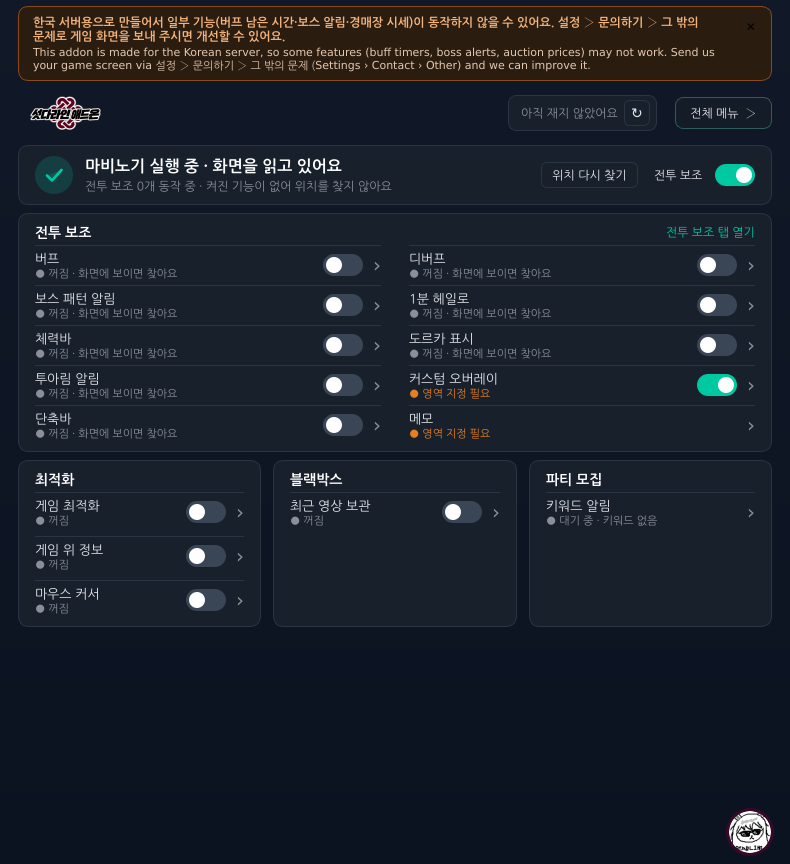
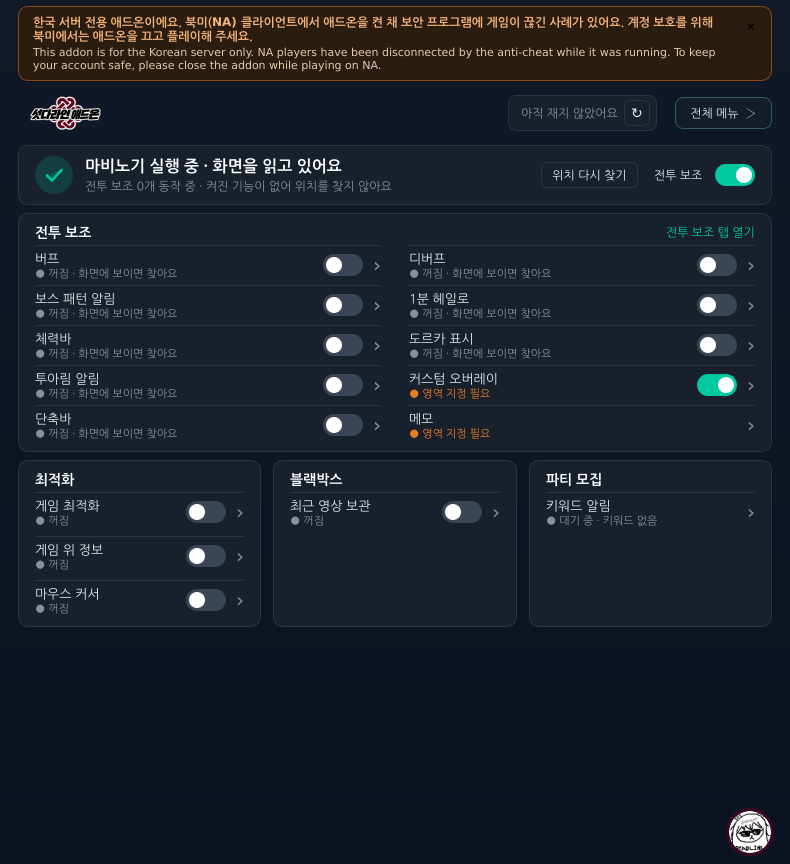
북미 안내 문구 강화 — 차단 없음, '애드온을 끄고 플레이' 경고를 실행마다 1번 (사용자 결정 11-18, 0.52.3)
자동 차단(5fbb5f09·2bb4cfb0)은 되돌림. 동작은 0.52.2와 같고 문구·판정·표시 횟수만:
- is_overseas_title: 제목이 정확히 'Mabinogi'(공백·대소문자 무시) — 꿀뷰·카톡·OBS 같은 한국 사용자 창에 경고가 뜨지 않게
- 표시: 앱 실행마다 1번(홈 띠 + 트레이), nonKoreanNoticeShown 안 씀 — 0.52.2 안내를 본 북미 사용자도 새 경고
- 문구: 보안 프로그램 끊김 사례·계정 보호를 위해 북미에서는 애드온을 끄고 플레이, 트레이 210자, 문의 권유 삭제
- 렌더(기본·큰 글꼴) 갱신, 노트 v0.52.3, 검사 목록 0.52.3

Claude-Session: https://claude.ai/code/session_01SbFuD9LBQUw7gFTz2Mmv9g

Changed region(s): [[0.0304, 0.0, 0.9114, 0.0938]]

diff --git a/tests/test_overseas_client.py b/tests/test_overseas_client.py
@@ -1,6 +1,7 @@
-"""해외(영문 제목) 마비노기 클라이언트 안내(사용자 결정 11-18) — 차단 없이 처음 볼 때 한 번 홈 띠 + 트레이 알림.
+"""북미(영문 제목) 마비노기 클라이언트 경고(사용자 결정 11-18 — 자동 차단 폐기, 안내 문구만 강화).
 
-NA 클라이언트는 창 제목 'Mabinogi', 한국은 '마비노기'(실행파일은 둘 다 Client.exe라 제목으로만 구분)."""
+차단 없이 앱 실행마다 한 번 홈 띠 + 트레이 알림. 북미 판정은 제목이 정확히 'Mabinogi'(한국은 '마비노기',
+실행파일은 둘 다 Client.exe라 제목으로만 구분). 경고가 '애드온을 끄라'는 내용이라 한국 사용자에게 뜨면 안 된다."""
 import pytest
 from test_navigation import window  # noqa: F401  (픽스처)
 
@@ -9,9 +10,12 @@ from mabinogi_addon.system.window_watcher import is_game_title, is_overseas_titl
 
 
 @pytest.mark.parametrize("title,overseas", [
-    ("Mabinogi", True), ("MABINOGI", True), ("mabinogi - Client", True),
+    ("Mabinogi", True), ("MABINOGI", True), (" mabinogi ", True),
     ("마비노기", False), ("마비노기 Mabinogi", False), ("Mabinogi 마비노기", False),
     ("", False), (None, False), ("메모장", False),
+    # 등록 실행파일이 없는 한국 사용자가 앞에 띄울 수 있는 창 — '포함' 판정이면 경고가 떴다
+    ("mabinogi_2026_11_18_123456.jpg - 꿀뷰", False), ("Mabinogi 길드", False),
+    ("OBS 30.2 - Profile: Mabinogi", False), ("mabinogi - Client", False),
 ])
 def test_title_decision(title, overseas):
     assert is_overseas_title(title) is overseas
@@ -20,12 +24,22 @@ def test_title_decision(title, overseas):
 @pytest.mark.parametrize("title,exe,shown", [
     ("Mabinogi", "client.exe", True),               # NA 게임 창
     ("Mabinogi", "", True),                         # 실행파일을 못 읽으면 제목만(게임 판정과 같은 규칙)
-    ("Mabinogi - Google Chrome", "chrome.exe", False),  # 브라우저 제외 목록은 게임이 아님 → 안내 없음
-    ("Mabinogi wiki", "explorer.exe", False),
+    ("Mabinogi", "chrome.exe", False),              # 제목이 딱 'Mabinogi'인 브라우저 — 제외 목록은 게임 아님
+    ("Mabinogi - Google Chrome", "chrome.exe", False),
     ("마비노기", "client.exe", False),               # 한국 게임 창
 ])
 def test_with_not_game_exclusions(title, exe, shown):
     assert (is_overseas_title(title) and is_game_title(title, exe)) is shown
+
+
+def test_warning_text_and_tray_limit(window):  # noqa: F811
+    w, _ = window
+    assert "애드온을 끄고 플레이해 주세요" in w.OVERSEAS_KO and "close the addon" in w.OVERSEAS_EN
+    for text in (w.OVERSEAS_KO, w.OVERSEAS_EN, w.OVERSEAS_TRAY):
+        assert "문의" not in text and "Contact" not in text  # 실행을 권하게 되는 '게임 화면 보내기' 권유는 뺌
+    assert w.OVERSEAS_TRAY_TITLE == "한국 서버 전용 · Korean server only"
+    assert w.OVERSEAS_TRAY.startswith(w.OVERSEAS_KO + "\n")
+    assert len(w.OVERSEAS_TRAY) == 210  # Windows 트레이 알림 본문 한도(약 255자) 안
 
 
 class Tray:
@@ -42,15 +56,16 @@ def _foreground(mp, w, title, exe="client.exe", active=True):
 
 
 # 창을 닫기(픽스처 정리) 전에 가짜 트레이·감시를 되돌린다 — 가짜를 단 채 닫으면 다음 창 테스트가 흔들림
-
-
-def test_overseas_client_notice_once(window, monkeypatch):  # noqa: F811
+def test_once_per_run_even_if_seen_before(window, monkeypatch):  # noqa: F811
     w, _ = window
     with monkeypatch.context() as mp:
+        config.save_general_flag("nonKoreanNoticeShown", True)  # 0.52.2 안내를 본 사용자 — 그래도 새 경고는 뜬다
         tray = Tray()
         mp.setattr(w, "_tray", tray)
         _foreground(mp, w, "마비노기")
-        assert not w._check_overseas_client() and w.home_page.notice_box.isHidden()  # 한국 클라이언트 — 없음
+        assert not w._check_overseas_client() and w.home_page.notice_box.isHidden()  # 한국 — 없음
+        _foreground(mp, w, "mabinogi_2026_11_18_123456.jpg - 꿀뷰", exe="")  # 등록 실행파일 없음 + 스크린샷 창
+        assert not w._check_overseas_client() and w.home_page.notice_box.isHidden()
         _foreground(mp, w, "Mabinogi", active=False)
         assert not w._check_overseas_client()  # 게임이 앞에 없으면 판단 안 함
         _foreground(mp, w, "Mabinogi")
@@ -58,39 +73,38 @@ def test_overseas_client_notice_once(window, monkeypatch):  # noqa: F811
         assert not w.home_page.notice_box.isHidden()
         assert w.home_page.notice_ko.text() == w.OVERSEAS_KO and w.home_page.notice_en.text() == w.OVERSEAS_EN
         assert tray.messages == [(w.OVERSEAS_TRAY_TITLE, w.OVERSEAS_TRAY)]
-        assert len(w.OVERSEAS_TRAY) <= 255  # Windows 트레이 알림 본문 한도
-        assert config.load_general_flag("nonKoreanNoticeShown") is True
-        assert not w._check_overseas_client() and len(tray.messages) == 1  # 이 실행에서 다시 안 함
+        assert not w._check_overseas_client() and len(tray.messages) == 1  # 이 실행에서는 1번만
         w.home_page.notice_close.click()
         assert w.home_page.notice_box.isHidden()
 
 
-def test_seen_before_no_notice_again(window, monkeypatch):  # noqa: F811
+def test_shows_again_on_next_run(window, monkeypatch):  # noqa: F811
+    """앱을 다시 켜면(새 창) 또 뜬다 — 본 기록을 남기지 않음."""
     w, _ = window
     with monkeypatch.context() as mp:
-        config.save_general_flag("nonKoreanNoticeShown", True)  # 예전 실행에서 봄
+        config.save_general_flag("nonKoreanNoticeShown", True)
         tray = Tray()
         mp.setattr(w, "_tray", tray)
         _foreground(mp, w, "Mabinogi")
-        assert not w._check_overseas_client()
-        assert w.home_page.notice_box.isHidden() and tray.messages == []
+        assert w._check_overseas_client() and len(tray.messages) == 1
+        raw = config._read_local_config()
+        assert raw["general"]["nonKoreanNoticeShown"] is True  # 예전 값은 그대로 두고 읽지 않음
+        w._overseas_done = False  # 새 실행 = 새 창(이 값은 창마다 처음 False)
+        assert w._check_overseas_client() and len(tray.messages) == 2
 
 
 def test_features_keep_running_on_overseas_client(window, monkeypatch):  # noqa: F811
-    """차단 없음 — 안내 뒤에도 게임 활성 판단·추적은 그대로."""
+    """차단 없음 — 경고 뒤에도 게임 활성 판단·추적은 그대로."""
+    w, _ = window
     with monkeypatch.context() as mp:
-        w, _ = window
         mp.setattr(w, "_tray", Tray())
         _foreground(mp, w, "Mabinogi")
         w._check_overseas_client()
         assert w._watcher.is_game_active() and not w._paused
 
 
-def test_notice_record_not_synced():
+def test_old_notice_record_still_not_synced():
+    """예전 0.52.2가 남긴 general.nonKoreanNoticeShown은 동기화에 올리지 않는다(값은 그대로 둠)."""
     config.save_general_flag("nonKoreanNoticeShown", True)
     raw = config._read_local_config()
     assert "nonKoreanNoticeShown" not in cloud_sync.strip_for_sync(raw).get("general", {})
-    merged = cloud_sync.merge_incoming({"general": {"nonKoreanNoticeShown": False}}, raw, same_resolution=True)
-    assert merged["general"]["nonKoreanNoticeShown"] is True  # 받을 때도 이 PC 값 그대로
-    fresh = cloud_sync.merge_incoming({"general": {"nonKoreanNoticeShown": True}}, {}, same_resolution=True)
-    assert "nonKoreanNoticeShown" not in fresh.get("general", {})  # 다른 PC에서 본 기록은 따라오지 않음

diff --git a/src/mabinogi_addon/ui/main_window.py b/src/mabinogi_addon/ui/main_window.py
@@ -1412,18 +1412,20 @@ class MainWindow(QMainWindow):
                 _cap_log.exception("게임 재시작 초기화 실패: %s", type(tab).__name__)
 
     # ---- 해외(영문 제목) 클라이언트 안내(사용자 결정 11-18) — 차단 없음, 처음 볼 때 한 번 ----
-    OVERSEAS_KO = ("한국 서버용으로 만들어서 일부 기능(버프 남은 시간·보스 알림·경매장 시세)이 동작하지 않을 수 있어요. "
-                   "설정 › 문의하기 › 그 밖의 문제로 게임 화면을 보내 주시면 개선할 수 있어요.")
-    OVERSEAS_EN = ("This addon is made for the Korean server, so some features (buff timers, boss alerts, auction prices) "
-                   "may not work. Send us your game screen via 설정 › 문의하기 › 그 밖의 문제 (Settings › Contact › Other) "
-                   "and we can improve it.")
-    OVERSEAS_TRAY_TITLE = "한국 서버 전용 · Made for the Korean server"
-    # Windows 트레이 알림 본문은 약 255자에서 잘려 한글 전체 + 영문 첫 문장만(문의 안내 영문은 홈 띠에)
-    OVERSEAS_TRAY = OVERSEAS_KO + "\n" + OVERSEAS_EN.split(" Send us")[0]
+    # 북미(영문 제목) 클라이언트 경고(사용자 결정 11-18 — 자동 차단 폐기, 안내만 강화). '문의하기로 게임 화면 보내기' 권유는 뺌(실행을 권하게 됨).
+    OVERSEAS_KO = ("한국 서버 전용 애드온이에요. 북미(NA) 클라이언트에서 애드온을 켠 채 보안 프로그램에 게임이 끊긴 사례가 있어요. "
+                   "계정 보호를 위해 북미에서는 애드온을 끄고 플레이해 주세요.")
+    OVERSEAS_EN = ("This addon is for the Korean server only. NA players have been disconnected by the anti-cheat while it "
+                   "was running. To keep your account safe, please close the addon while playing on NA.")
+    OVERSEAS_TRAY_TITLE = "한국 서버 전용 · Korean server only"
+    # Windows 트레이 알림 본문은 약 255자에서 잘려 영문은 줄인 문장(210자)
+    OVERSEAS_TRAY = (OVERSEAS_KO + "\n" + "Korean server only. NA anti-cheat has disconnected players while it was running. "
+                     "Please close the addon on NA.")
 
     def _check_overseas_client(self) -> bool:
-        """앞에 있는 게임 창 제목이 해외(영문)면 홈 맨 위 띠 + 트레이 알림을 한 번(general.nonKoreanNoticeShown). 보이면 True.
-        판독·기능은 그대로 둔다(NA 보안 프로그램 끊김의 애드온 원인 근거 없음 — 차단하지 않음)."""
+        """앞에 있는 게임 창 제목이 북미(정확히 'Mabinogi')면 홈 맨 위 띠 + 트레이 알림 — 앱 실행마다 한 번. 보이면 True.
+        판독·기능은 그대로 둔다(차단 없음). 예전 general.nonKoreanNoticeShown(한 번 보면 영구히 안 뜸)은 쓰지 않는다 —
+        0.52.2 안내를 본 북미 사용자도 바뀐 경고를 봐야 한다(사용자 결정 11-18)."""
         if getattr(self, "_overseas_done", False):
             return False
         try:
@@ -1435,14 +1437,8 @@ class MainWindow(QMainWindow):
         from ..system.window_watcher import is_game_title, is_overseas_title
         if not (is_overseas_title(title) and is_game_title(title, exe)):
             return False
-        self._overseas_done = True
-        if config.load_general_flag("nonKoreanNoticeShown", False):
-            return False
-        try:
-            config.save_general_flag("nonKoreanNoticeShown", True)
-        except OSError:
-            _cap_log.warning("해외 클라이언트 안내 기록 실패", exc_info=True)
-        _cap_log.info("[해외 클라이언트] 게임 창 제목 %r — 한국 서버 전용 안내(1회)", title)
+        self._overseas_done = True  # 이번 실행에서는 다시 안 띄움
+        _cap_log.info("[해외 클라이언트] 게임 창 제목 %r — 북미 경고(이번 실행 1회)", title)
         self.home_page.show_notice(self.OVERSEAS_KO, self.OVERSEAS_EN)
         if self._tray is not None:
             self._tray.showMessage(self.OVERSEAS_TRAY_TITLE, self.OVERSEAS_TRAY, app_icon(), 15000)

diff --git a/src/mabinogi_addon/system/window_watcher.py b/src/mabinogi_addon/system/window_watcher.py
@@ -49,11 +49,11 @@ def is_game_title(title: str, exe: str | None, titles: tuple[str, ...] = DEFAULT
 
 
 def is_overseas_title(title: str | None) -> bool:
-    """해외(영문 제목) 마비노기 클라이언트인지 — 제목에 '마비노기'가 없고 'mabinogi'만 있으면 해외(NA 'Mabinogi').
-    실행파일은 한국·해외 모두 Client.exe라 제목으로만 구분한다(사용자 결정 11-18). 게임 창인지 판단은 따로
-    (is_game_title — 브라우저 등 제외 목록)라 함께 써야 한다. 순수 함수(맥에서 테스트)."""
-    title = title or ""
-    return "마비노기" not in title and "mabinogi" in title.lower()
+    """북미(영문) 마비노기 게임 창 제목인지 — 제목이 정확히 'Mabinogi'(앞뒤 공백·대소문자 무시, NA 로그의 제목 그대로).
+    '포함' 판정은 등록 실행파일이 없는 한국 사용자가 'mabinogi_2026_….jpg - 꿀뷰'·'Mabinogi 길드' 같은 창을 앞에 띄우면
+    안내가 뜰 수 있어 쓰지 않는다 — 안내가 '애드온을 끄라'는 경고라 한국 사용자에게 뜨면 안 됨(사용자 결정 11-18).
+    실행파일은 한국·북미 모두 Client.exe라 제목으로만 구분한다. 게임 창인지(브라우저 등 제외)는 is_game_title과 함께. 순수 함수."""
+    return (title or "").strip().lower() == "mabinogi"
 
 
 def is_game_window(title: str, exe: str | None, pid: int = 0, own_pid: int | None = None,

diff --git a/tests/test_release_checks.py b/tests/test_release_checks.py
@@ -70,18 +70,18 @@ def test_current_plan_maps_every_selected_file_to_changed_code_or_shared_contrac
 
 
 def test_current_release_keeps_feature_boundaries_and_delivery_contracts():
-    """0.52.2: 해외(영문 제목) 클라이언트 '한국 서버 전용' 안내 + 배포 계약. (릴리즈마다 경계를 바꾼다 — 누적하지 않음)"""
+    """0.52.3: 북미(영문 제목) 클라이언트 경고 강화(차단 없음) + 배포 계약. (릴리즈마다 경계를 바꾼다 — 누적하지 않음)"""
     root = Path(__file__).resolve().parents[1]
     plan = json.loads((root / 'packaging/release_checks.json').read_text(encoding='utf-8'))
     paths = set(plan['tests'])
     assert {
-        'tests/test_overseas_client.py', 'tests/test_cloud_sync.py',
+        'tests/test_overseas_client.py', 'tests/test_home_page.py',
         'tests/test_startup_build.py', 'tests/test_release_checks.py', 'tests/test_release_candidate.py',
         'tests/test_windows_ci.py', 'tests/test_startup_smoke.py',
     } <= paths
     assert {
         'src/mabinogi_addon/system/window_watcher.py', 'src/mabinogi_addon/ui/main_window.py',
-        'src/mabinogi_addon/ui/home_page.py', 'src/mabinogi_addon/cloud_sync.py',
+        'src/mabinogi_addon/ui/home_page.py',
         'packaging/build_windows.py', 'src/mabinogi_addon/assets/release_notes.md',
     } <= set(plan['coverage'])
     # The separate development entry must continue collecting the whole suite.

diff --git a/docs/status.md b/docs/status.md
@@ -25,6 +25,9 @@
 
 ## 배포와 검증
 
+- **0.52.3 북미 자동 차단 폐기 + 경고 문구 강화(사용자 결정 11-18, 개발)**: `git revert 2bb4cfb0 5fbb5f09`(코드·테스트 충돌 없음, status.md는 최신 유지 + 두 항목에 '폐기' 표시) → `git diff v0.52.2 -- src packaging` 결과 없음 확인 후 아래만 새로 넣음. 동작은 0.52.2와 같고(차단 없음, 판독·기능 그대로) 문구·판정·표시 횟수만 변경.
+  판정: `is_overseas_title` = 제목이 정확히 'Mabinogi'(공백·대소문자 무시) — 등록 실행파일이 없는 한국 사용자가 'mabinogi_….jpg - 꿀뷰' 같은 창을 앞에 띄워도 경고가 뜨지 않게(게임 창 판정 is_game_title과 함께). 표시: 앱 실행마다 1번(홈 맨 위 띠 + 트레이), `general.nonKoreanNoticeShown`은 읽지도 쓰지도 않음(0.52.2 안내를 본 북미 사용자도 새 경고를 봄, 예전 값은 동기화 제외 그대로). 문구: KO '한국 서버 전용 애드온이에요. 북미(NA) 클라이언트에서 애드온을 켠 채 보안 프로그램에 게임이 끊긴 사례가 있어요. 계정 보호를 위해 북미에서는 애드온을 끄고 플레이해 주세요.' / EN 'This addon is for the Korean server only. NA players have been disconnected by the anti-cheat while it was running. To keep your account safe, please close the addon while playing on NA.' / 트레이 제목 '한국 서버 전용 · Korean server only', 본문 KO 전체 + 'Korean server only. NA anti-cheat has disconnected players while it was running. Please close the addon on NA.'(210자). '문의하기로 게임 화면 보내기' 권유 삭제. 렌더(기본 글꼴 + 큰 글꼴, 잘림 없음 — 큰 글꼴은 띠가 5줄로 늘어남) `docs/assets/overseas-notice-20261118/`(home_notice·home_notice_large·tray_mock). 노트 v0.52.3 한 줄, 검사 목록 0.52.3.
+  변경 파일 → 영향 → 검사: `system/window_watcher.py`(is_overseas_title 정확히 일치) → 북미 경고 판정(게임 창 판정 is_game_title은 그대로) → `test_overseas_client.py`·`test_game_window_judge.py` / `ui/main_window.py`(OVERSEAS_* 문구, `_check_overseas_client` 실행마다 1번) → 홈 띠·트레이 → `test_overseas_client.py`·`test_navigation.py`·`test_startup_smoke.py` / `ui/home_page.py`(변경 없음, 0.52.2 띠 그대로 — 긴 문구 렌더 확인) → `test_home_page.py` / `assets/release_notes.md` → `test_release_notes.py`·`test_release_notes_trigger.py` / `packaging/release_checks.json` → `test_release_checks.py`. 결과: test_overseas_client 23 통과(꿀뷰·카톡·OBS 제목 False, 한 실행 1번·다시 켜면 또, nonKoreanNoticeShown=true여도 뜸, 한국만이면 안 뜸, 차단 없음), 관련 5개 파일 -n 6에서 1건 실패 = test_home_page::test_many_needs_scroll_with_dark_scrollbar(단독 2회 통과, 이번 변경 뺀 v0.52.2 코드에서도 같은 병렬 실행에서 같은 실패 → 원래 있던 병렬 간헐 실패), 배포 검사 0.52.3 CI 글꼴 348 통과.
 - **사용자 결정(11-18): NA 자동 차단 개발(5fbb5f09·2bb4cfb0) 폐기 — 안내 문구만 강화(0.52.3), NA 사용자에겐 '사용 자제' 메시지 보냄.**
   이유: 차단은 한국 사용자도 지나는 창 판정·게임 창 위치·재시작 감지 경로를 바꿔 한국 쪽 문제가 생길 수 있음, 원인(상주 특징일 수 있음)도 미확정. 개발 요청: 두 커밋 되돌리기(코드는 깨끗이 되돌려짐, docs/status.md만 충돌 — QA 확인),
   안내 문구 '끊긴 사례 있음·북미에선 끄고 플레이' + 문의하기 권유 삭제, 판정은 제목이 정확히 'Mabinogi'만(0.52.2 '포함' 판정은 등록 실행파일 없는 한국 사용자가 'mabinogi_….jpg - 꿀뷰'를 앞에 띄우면 안내가 뜰 수 있음),

diff --git a/src/mabinogi_addon/assets/release_notes.md b/src/mabinogi_addon/assets/release_notes.md
@@ -1,3 +1,8 @@
+## v0.52.3
+
+조용히 다듬은 것들
+- 북미(영문 'Mabinogi') 클라이언트 안내를 바꿨어요. 애드온을 켠 채 보안 프로그램에 게임이 끊긴 사례가 있어, 북미에서는 애드온을 끄고 플레이해 달라고 알려 드려요.
+
 ## v0.52.2
 
 조용히 다듬은 것들
